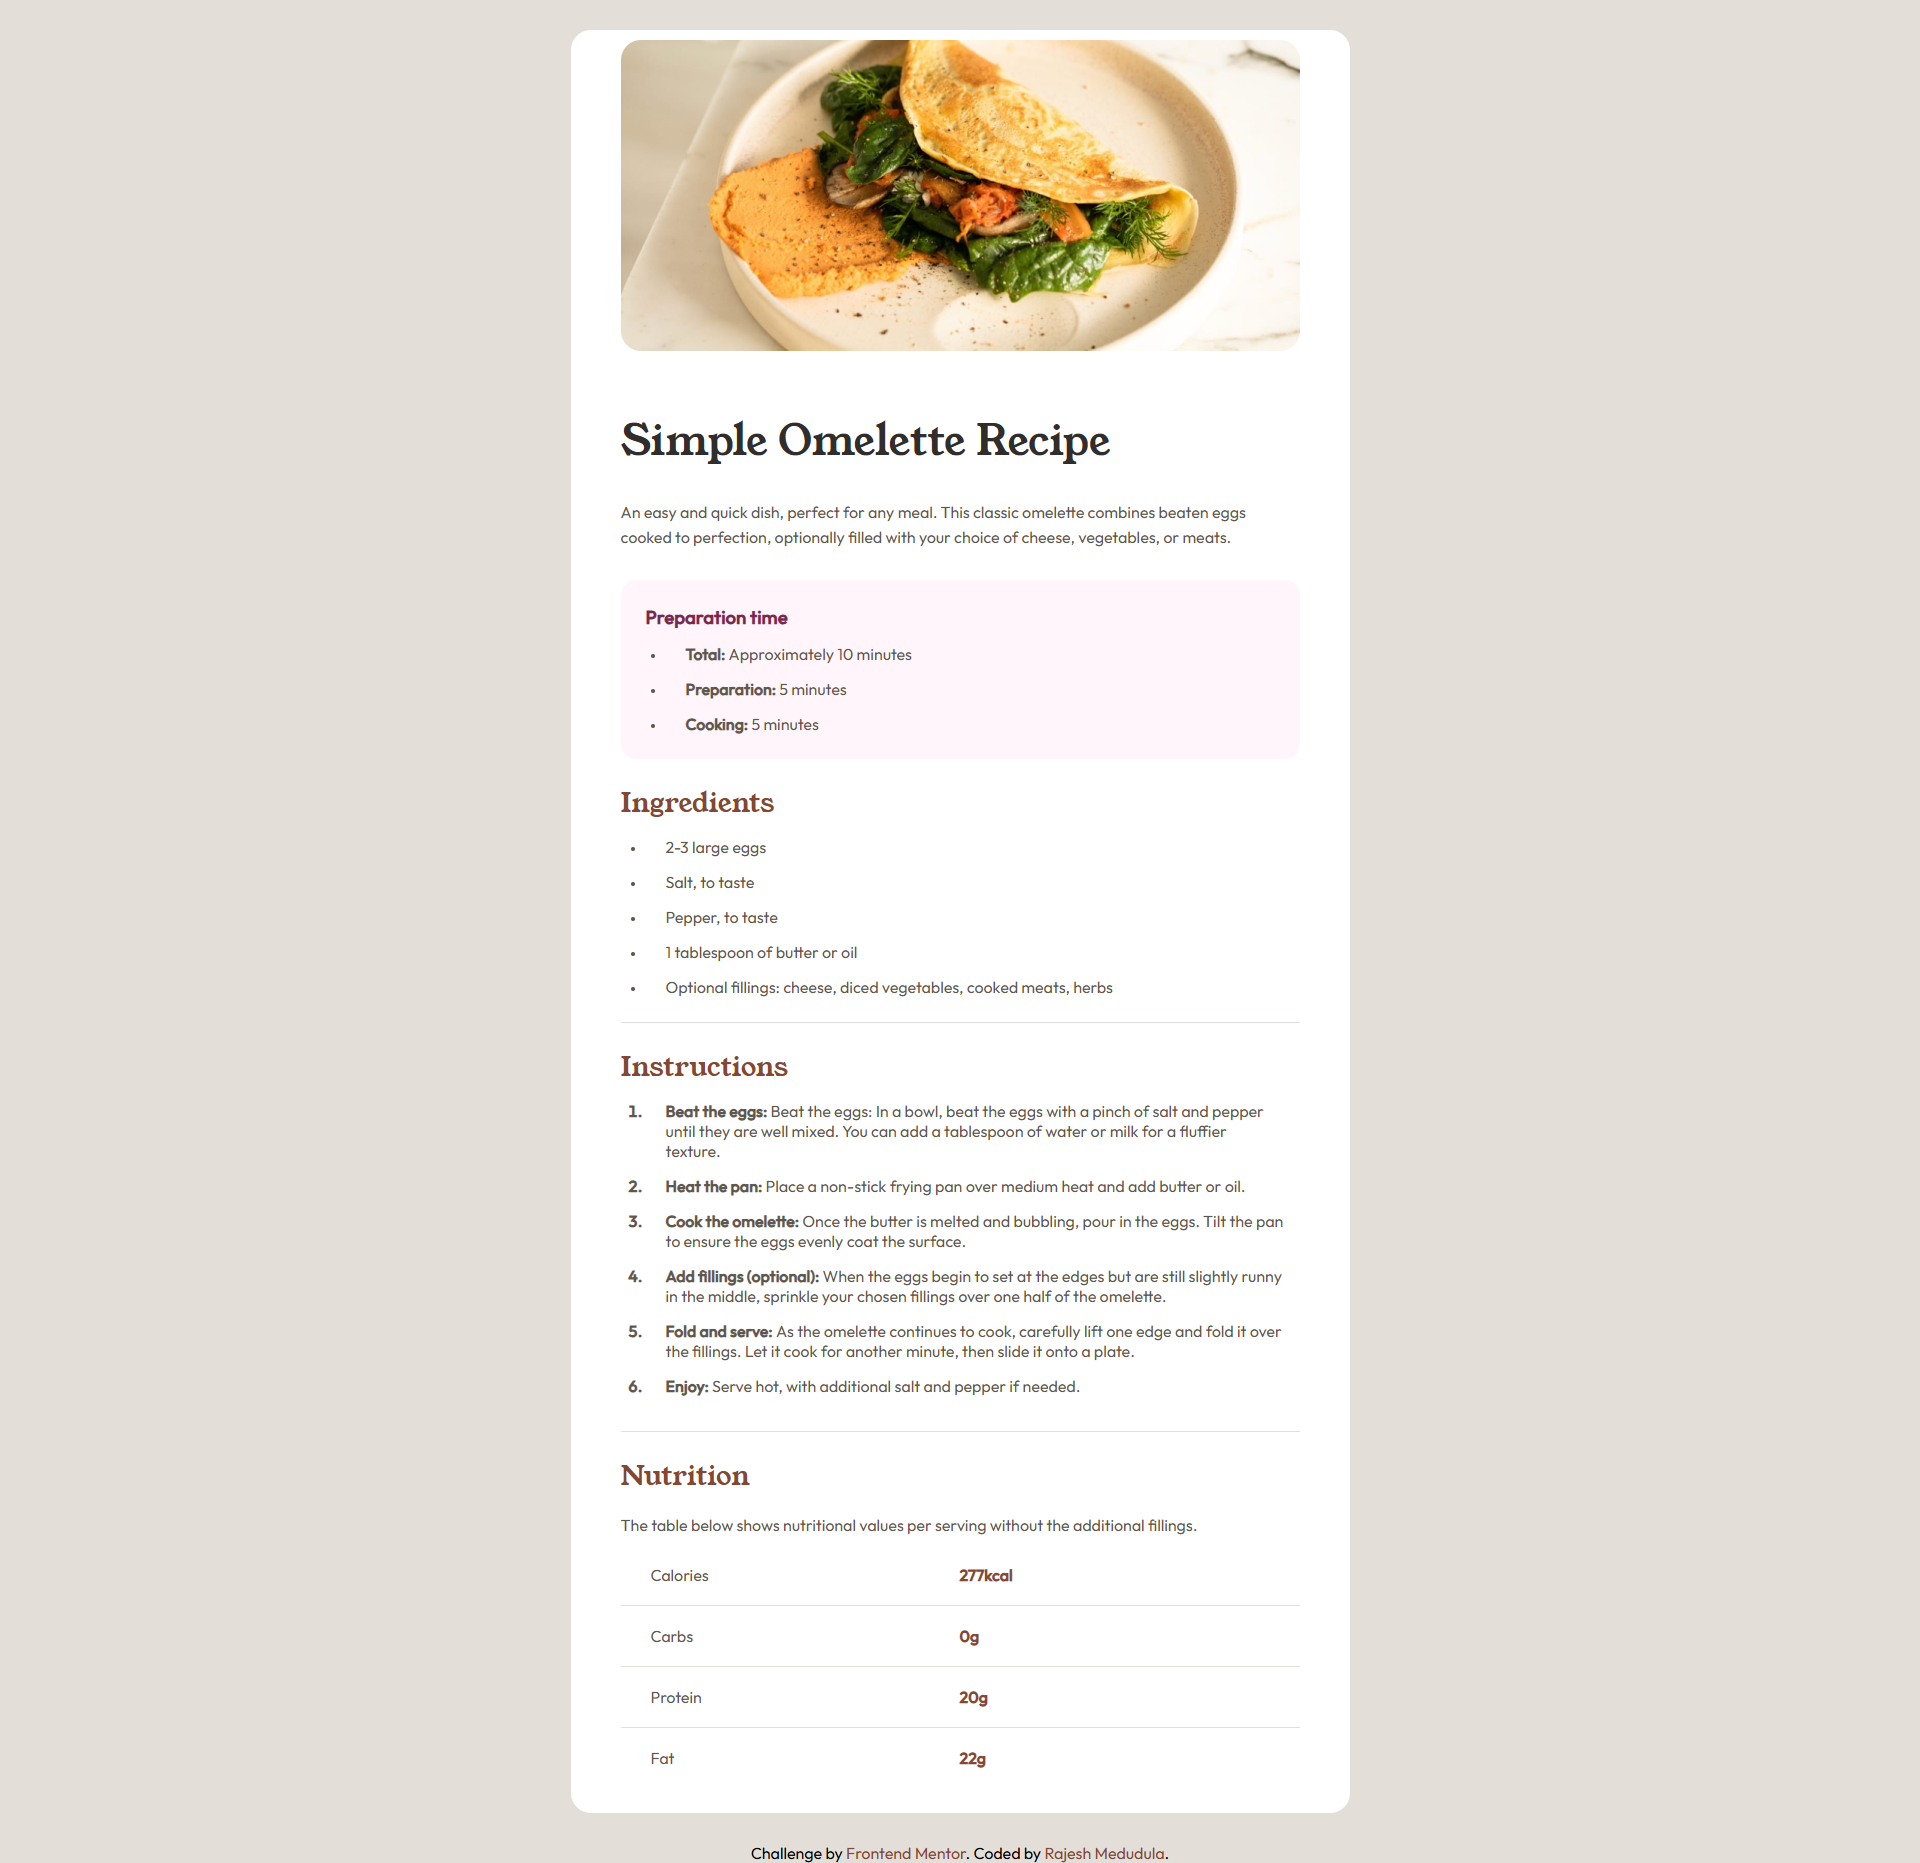
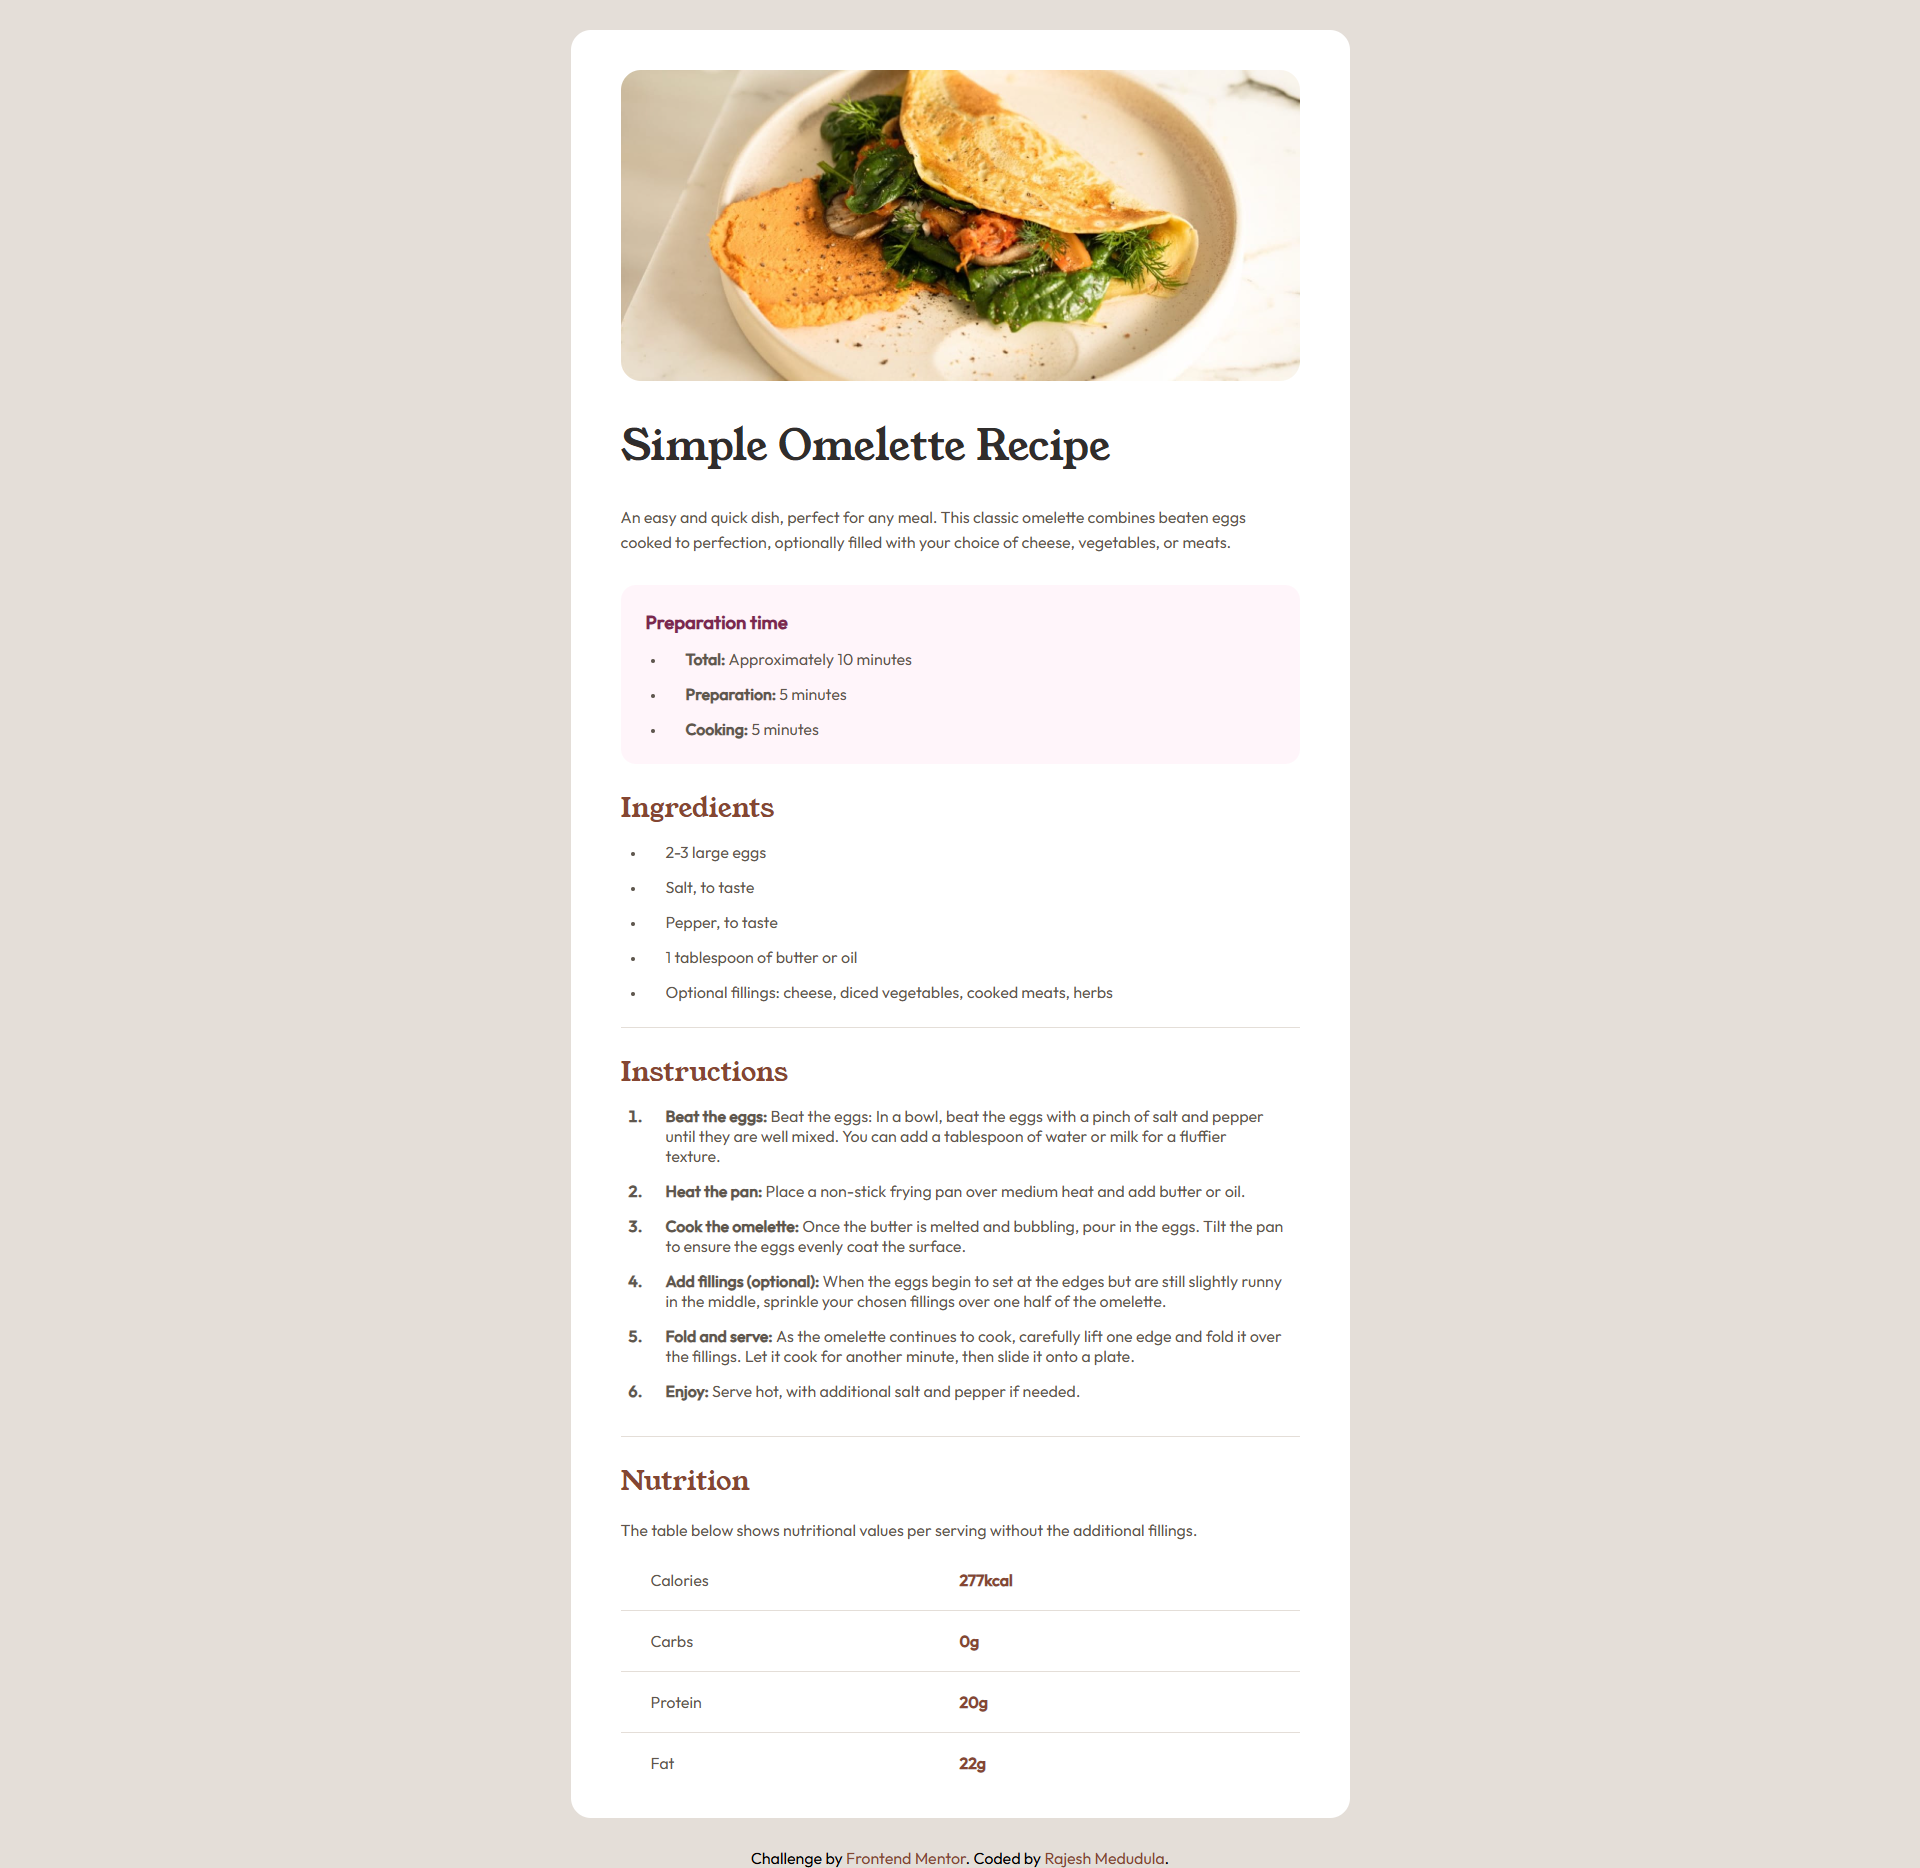
Add files via upload

diff --git a/style.css b/style.css
@@ -22,6 +22,7 @@
     display: block;
     border-radius: var(--spacing-20);
     margin-bottom: var(--spacing-35);
+    margin-top: var(--spacing-30);
   }
 
   body {
@@ -118,6 +119,7 @@
 @layer section-recipe {
   .section-recipe {
     margin-bottom: 0px;
+    margin-top: 0;
   }
 
   .recipe-description {
